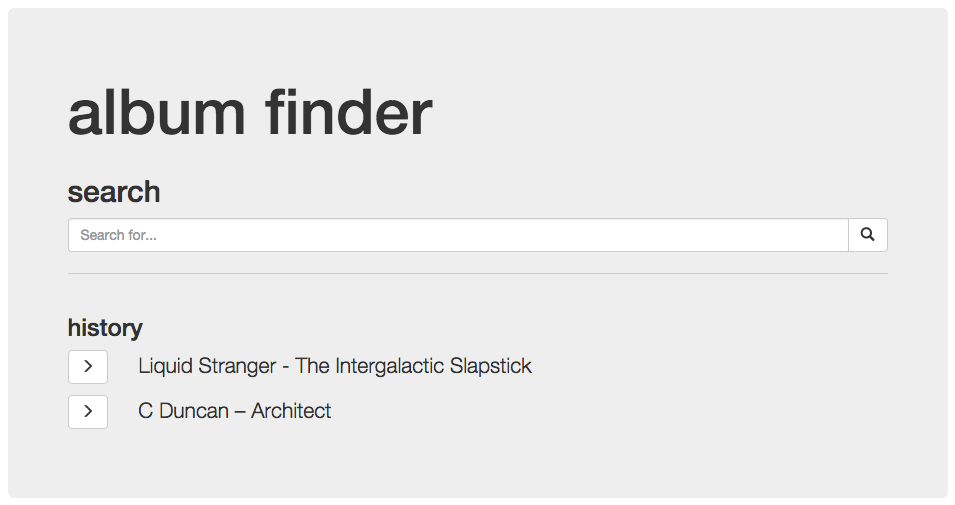
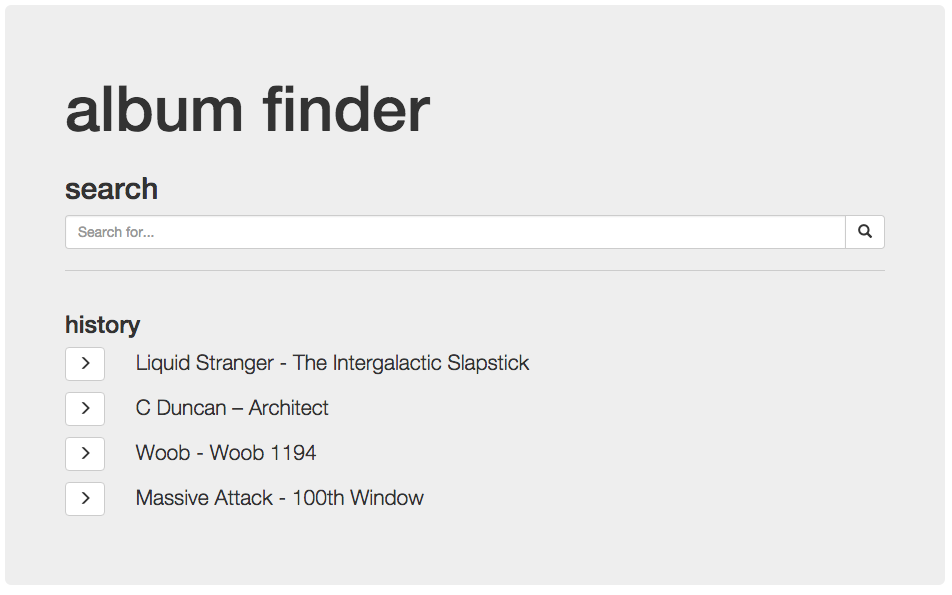
add new screenshots

diff --git a/README.md b/README.md
@@ -27,7 +27,7 @@ MuSAPI searches multiple sources for album previews and returns them as JSON. al
 
 ## Screenshots of current version
 
-User revists site with search history visible:
+User revisits site with search history preserved:
 
 ![User revists site with search history visible](https://github.com/sonicblend/album-finder/blob/master/screenshots/album_finder_history_closed.png)
 
@@ -46,3 +46,7 @@ User deletes item from history:
 User deletes all items from history:
 
 ![User deletes all items from history](https://github.com/sonicblend/album-finder/blob/master/screenshots/album_finder_no_history.png)
+
+User searches for an item (though this currently just adds it to the history collection):
+
+![User searches for an item](https://github.com/sonicblend/album-finder/blob/master/screenshots/album_finder_search.png)
